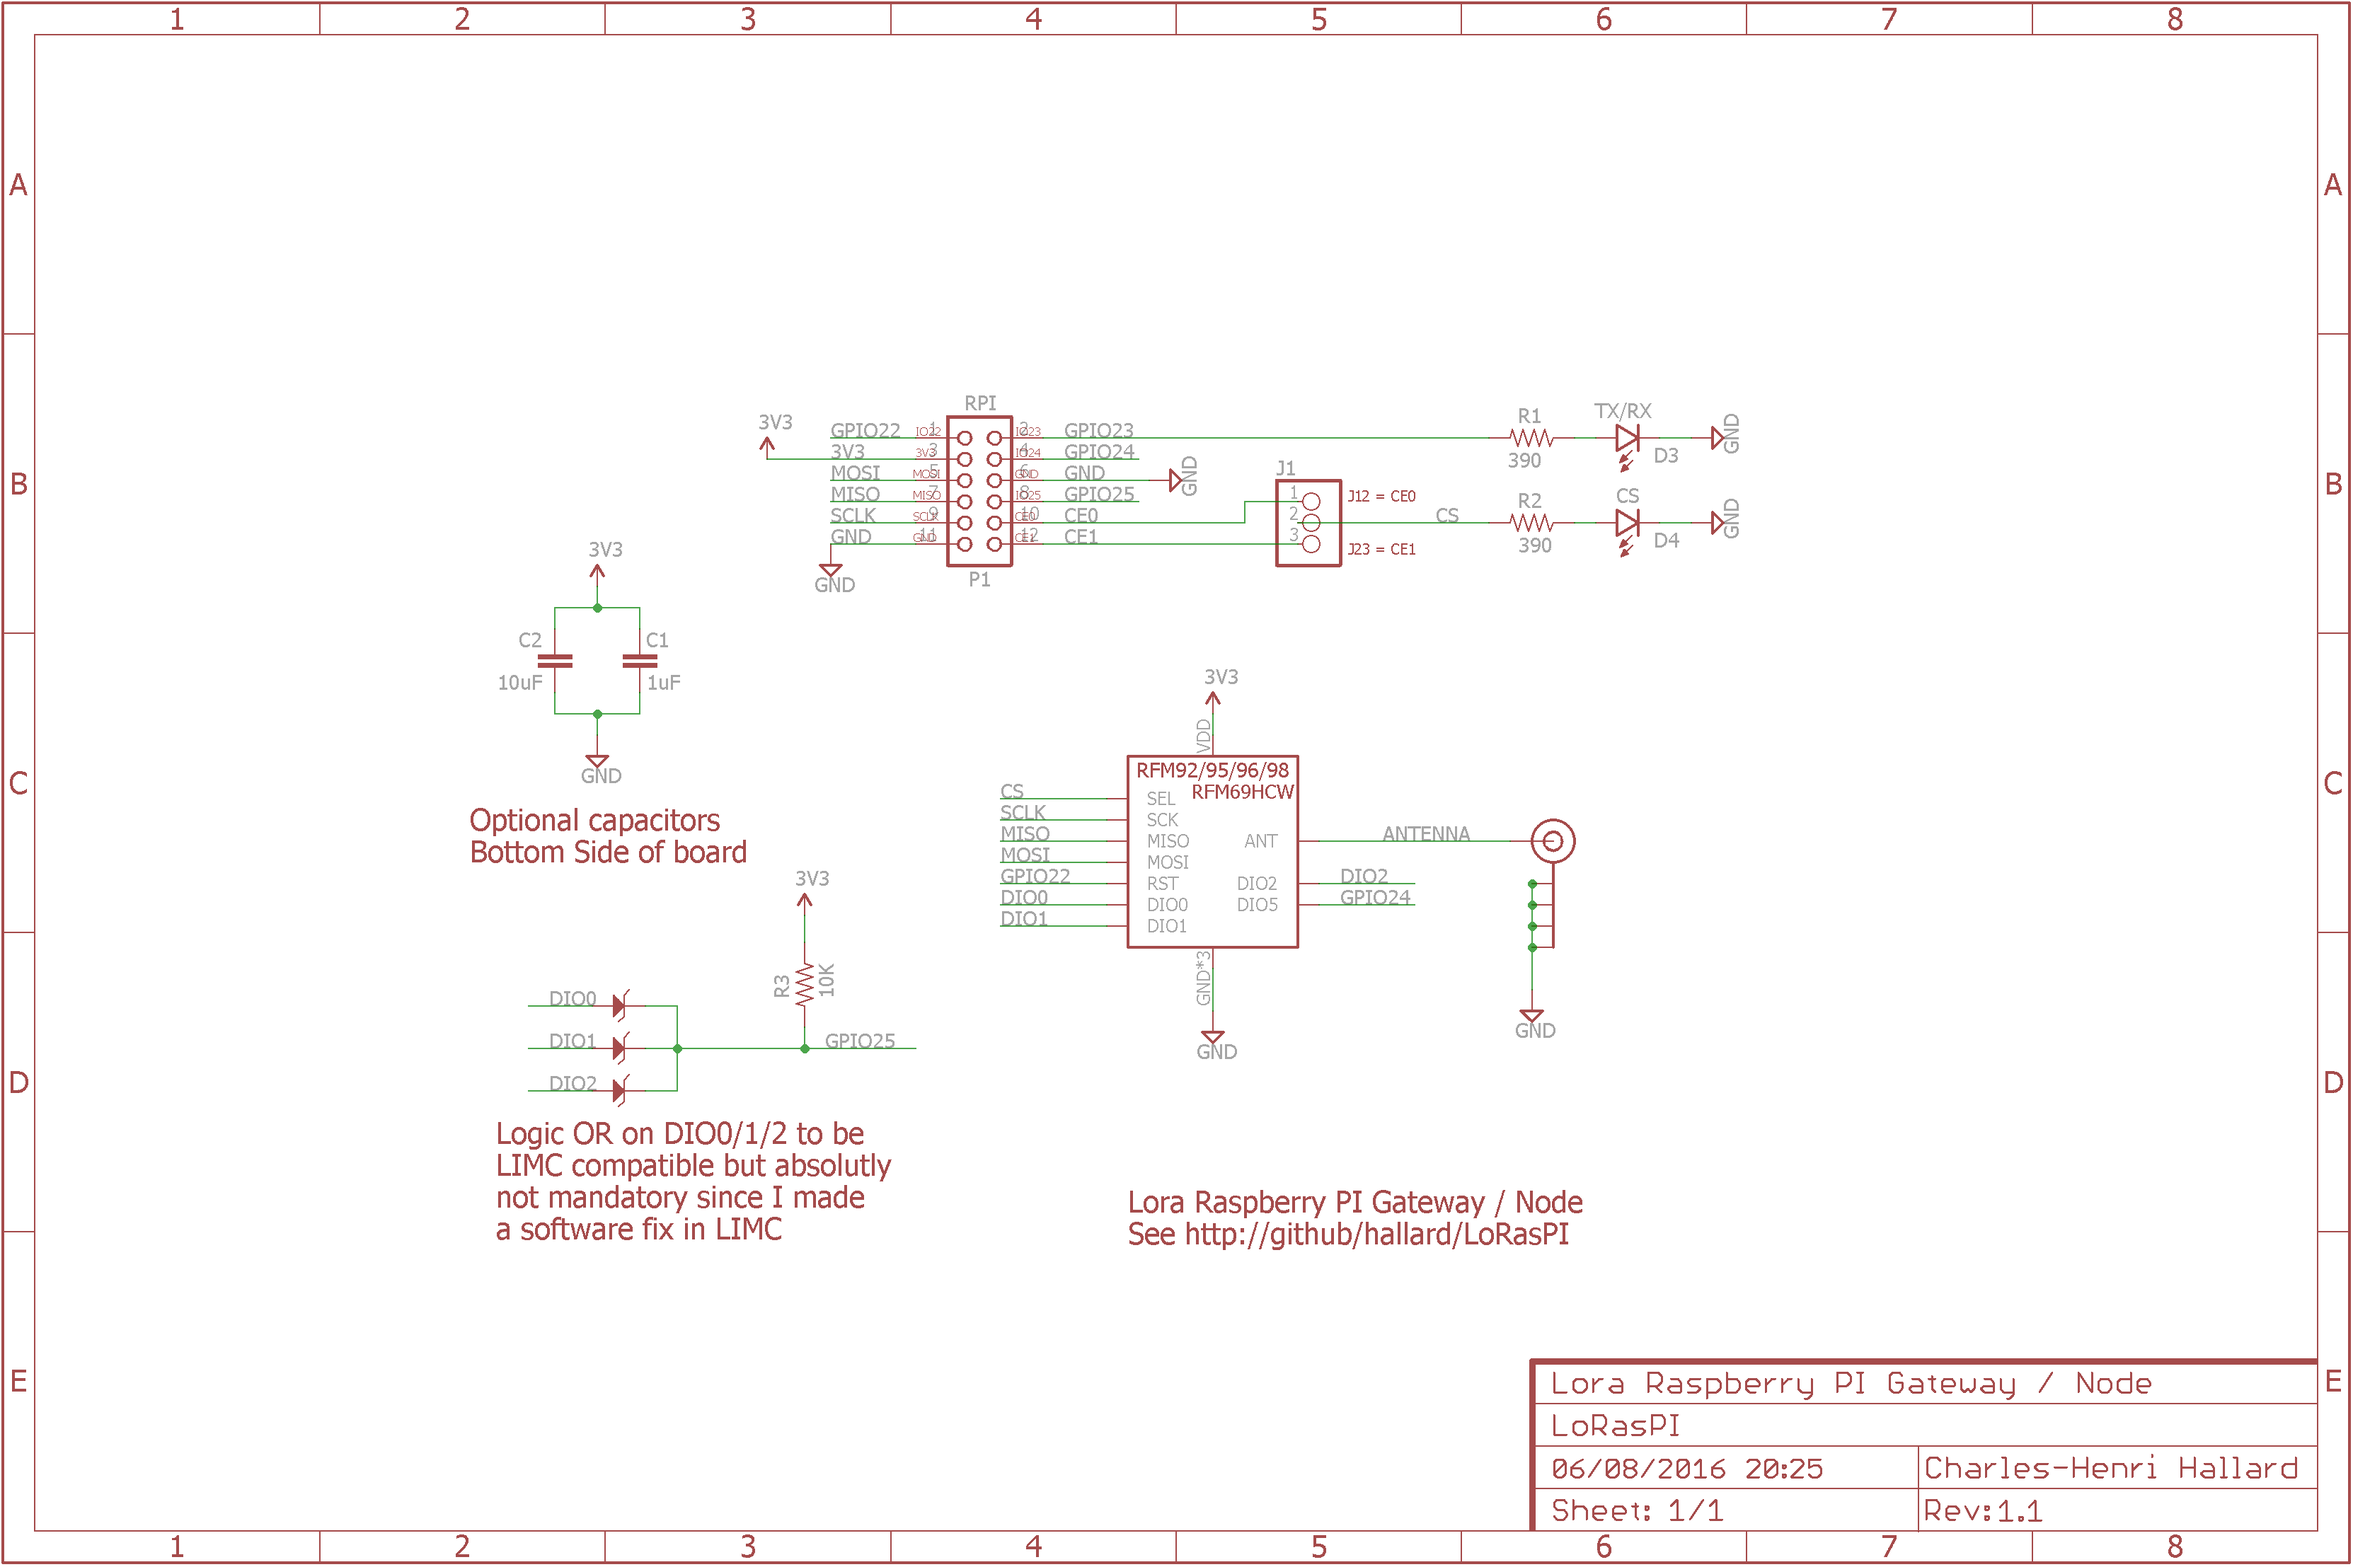
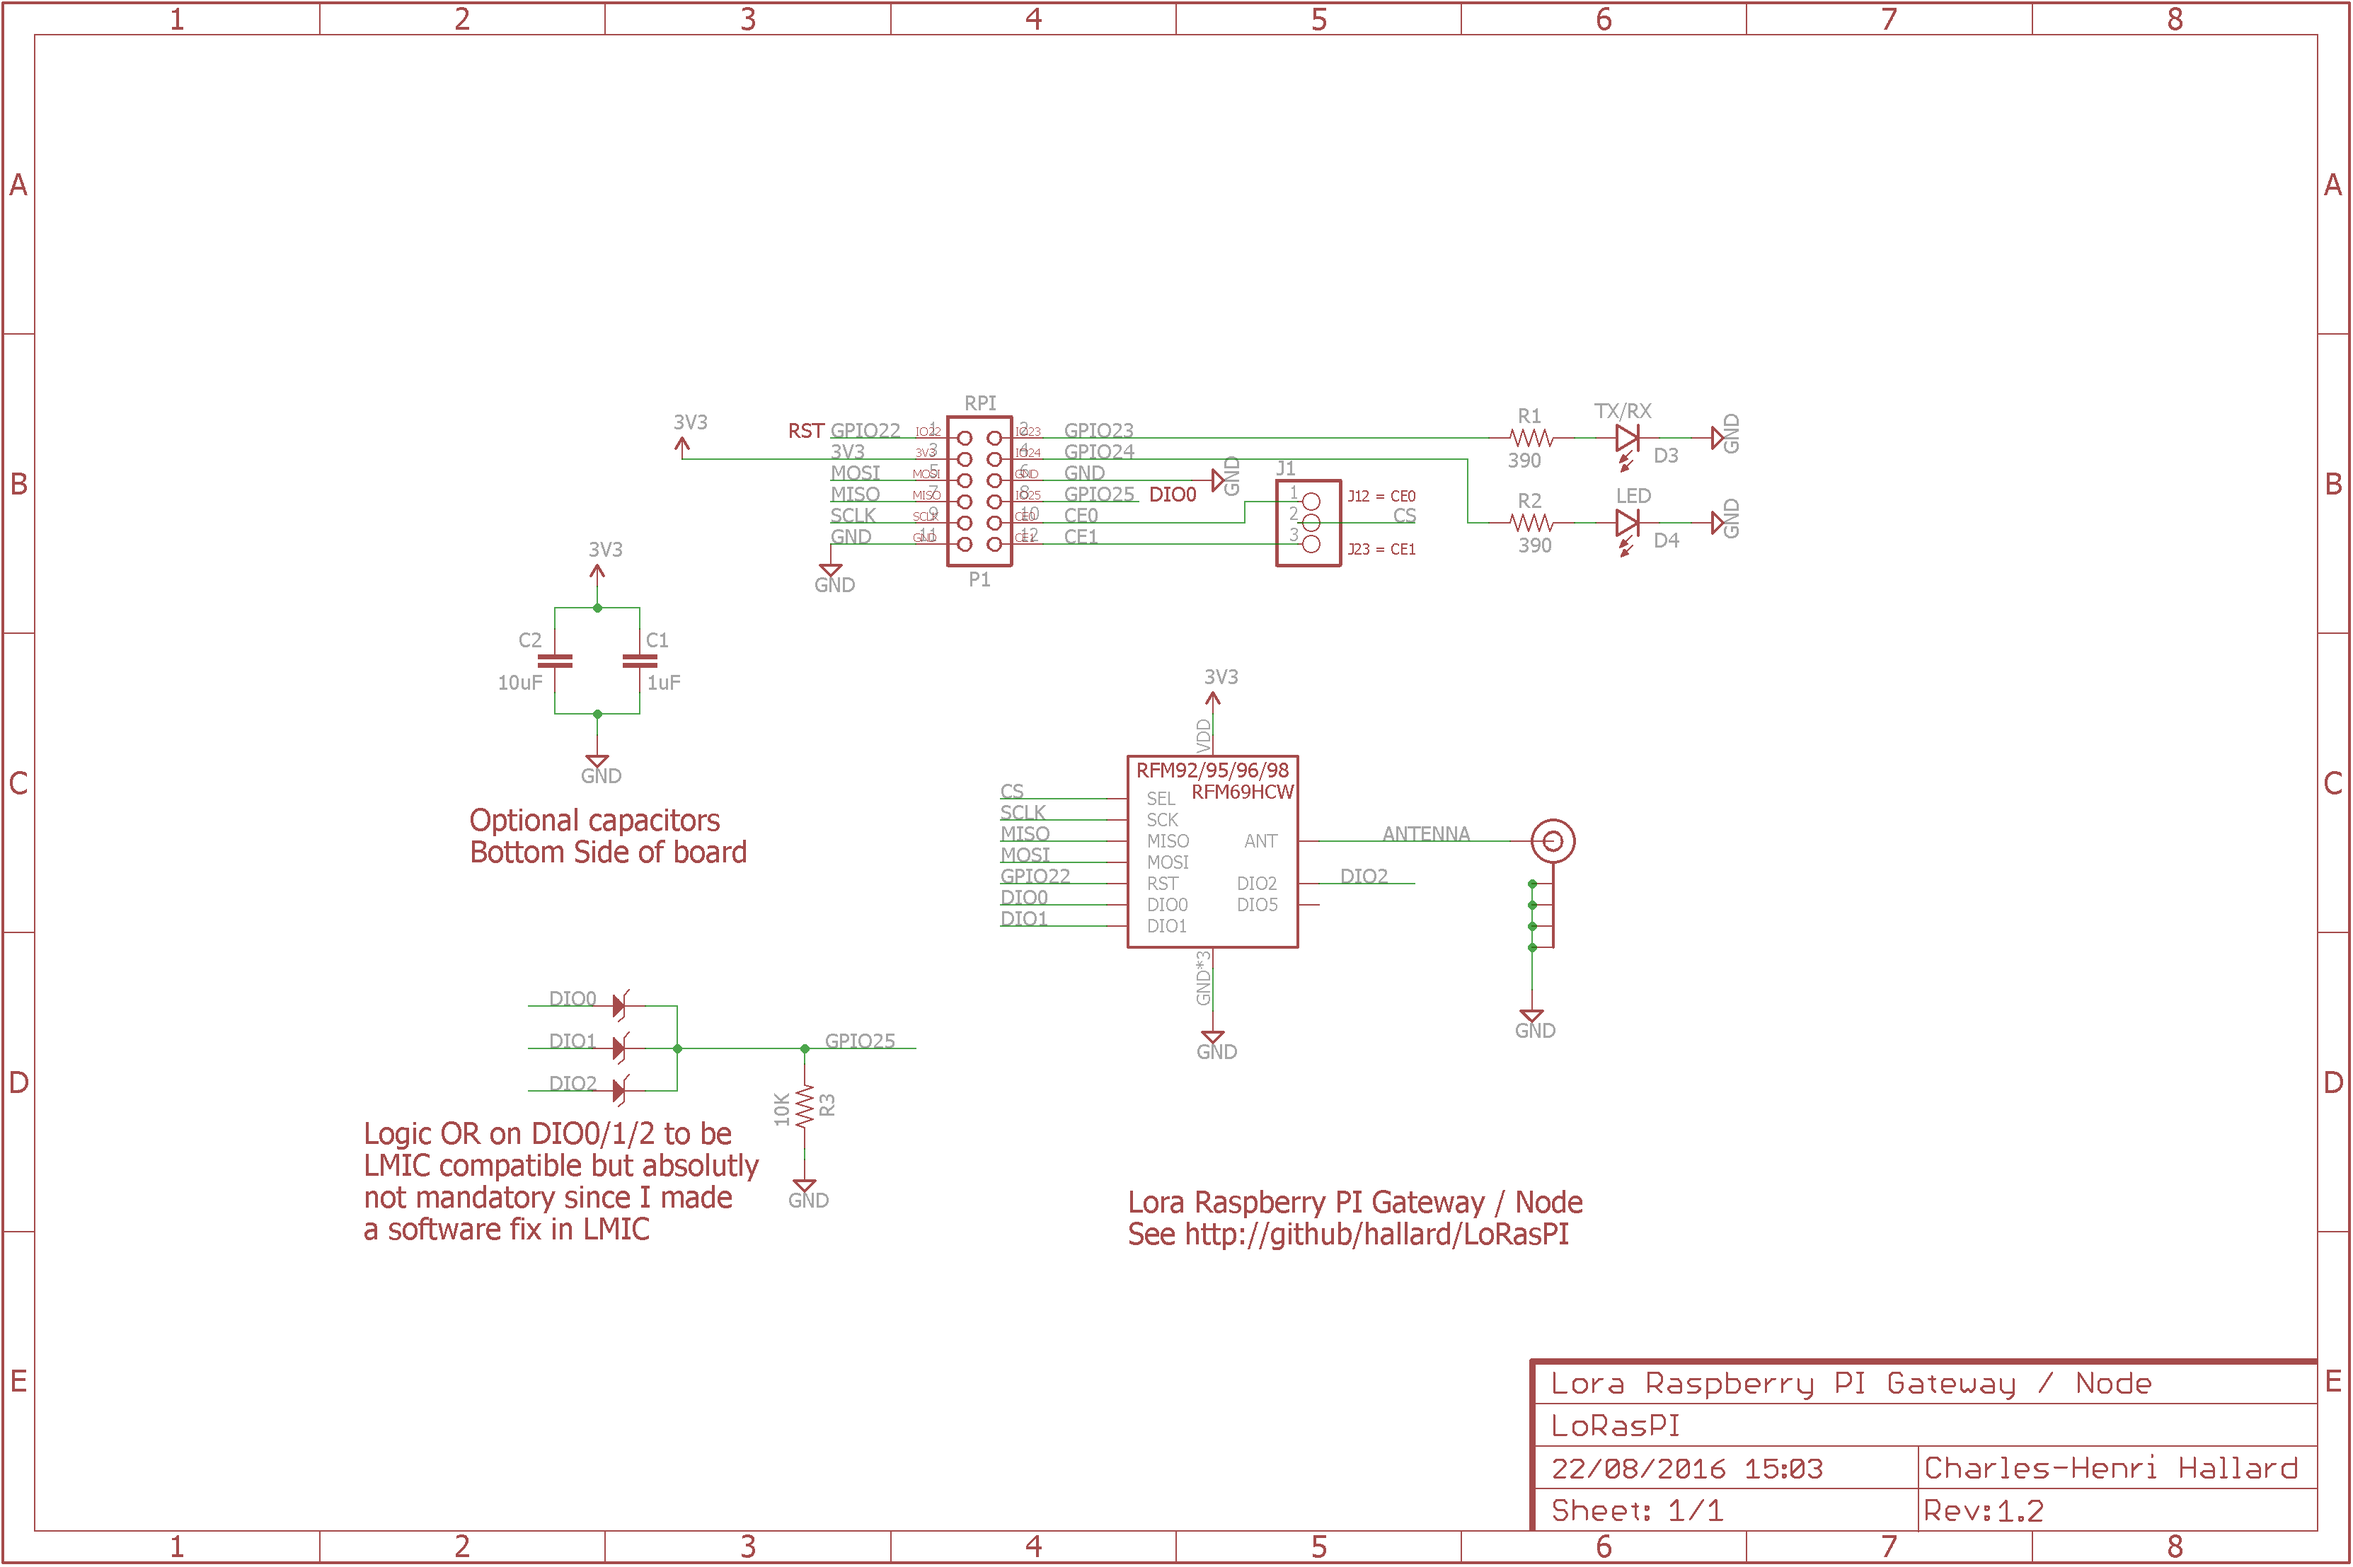
Version 1.2

Changed region(s): [[0.1549, 0.7165, 0.3717, 0.8099], [0.4956, 0.2804, 0.5266, 0.3115]]

diff --git a/README.md b/README.md
@@ -5,15 +5,21 @@ This shield is used to hold HopeRF [Lora module][4] Software with Raspbery PI. i
 
 I tweaked the [Single LoraWan Gateway][5] to get it working out of the box. It should also works with [HAB Supplies Lora Gateway][7] (same pinout), see this excellent [Dave's article][6].
 
-This shield can also act as a LoraWAN Node using [LIMC][9] stack, or also be a Node/Gateway for RF69 networks using the excellent [RadioHead][10] modified library.
+This shield can also act as a LoraWAN Node using [LIMC][9] stack, or also be a Node/Gateway for RF69 networks using the excellent [RadioHead][10] modified library. This RadioHead version tested and worked with this shield, see [readme][12] of library.
 
-As you can see, this shield is small but can do a lot bt if you need a shield with more features (modules) on same board, I've designed a more featured one. It's called RPI Lora Gateway, you can go [here][11] to see it.
+As you can see, this shield is small but can do a lot but if you need a shield with more features (modules) on same board, I've designed a more featured one. It's called RPI Lora Gateway, you can go [here][11] to see it.
 
 Features
 ========
 - Placement for RFM92/95/96/98 Lora module or RFM69HCW classic module
 - Placement for choosing single Wire, SMA or u-FL Antenna type
 - 2 x LED LED for visual indication
+
+**New in Version 1.2**
+
+- R3 Error corrected, it's now a Pull Down
+- DIO5 connection to GPIO24 removed, not used
+- 2nd led is now connected to GPIO24 instead of CS line
 
 **New in Version 1.1**
 
@@ -22,9 +28,9 @@ Features
 - Better ground plane isolation
 - Added some via on RF part 
 
-I'm waiting now new V1.1 boards from OSHPark and PCBs.io, so I didn't fully tested V1.1 yet, I will update ASAP.
+I'm waiting now new V1.1 and V1.2 boards from OSHPark and PCBs.io, so I didn't fully tested V1.1/V1.2 yet, I will update ASAP.
 
-I discovered a design error on V1.1, R3 resistor should be a pull down resistor and not a pull up, so **you should not populate R3, do not place it**, it's not a real problem since software will activate pull down of the BCM2835 controller.
+I discovered a design error on V1.1, R3 resistor should be a pull down resistor and not a pull up, so **you should not populate R3, do not place it**, it's not a real problem since software will activate pull down of the BCM2835 controller but it's corrected in V1.2
 
 ~~I'm waiting boards V1.0~~ Boards arrived from OSHPark, all is working as expected (V1.0). ~~so I didn't fully tested them yet, I will update ASAP~~.
 
@@ -38,13 +44,23 @@ Take care that by default it's connected to CE0 (wired) so you don't have to do 
 
 Only One GPIO needed for DIO0/DIO1/DIO2 (OR made with 3 diodes and one resistor R3) that will make this board fully compatible with current LIMC implementation, even if I've done a software fix which works with no interrupt. Only Needed for Lora modules, if you're using RFM69HCW and and to use IRQ just place D0 and R3.
 
-I discovered a design error on V1.1, R3 resistor should be a pull down resistor and not a pull up, so **you should not populate R3, do not place it**, it's not a real problem since software will activate pull down of the BCM2835 controller.
-
 ~~Other pins that may need be adapted into code (for example if you use TTN network gateway code) according to the following pinout~~ This [Single LoraWan Gateway][5] has been tweaked and works right out of the box.
 
 Detailed Description
 ====================
 
+**Since V1.2**
+```
+Raspberry PI   RFM9x Module 1
+   GPIO22  <---->  Reset
+   GPIO25  <---->  DIO0 OR DIO1 OR DIO2 (Hardware OR done with 1N4148 Diode and R3)
+
+Raspberry PI   On Board LEDS
+   GPIO23  <---->  LED D1 TX/RX
+   GPIO24  <---->  LED D2 LED
+```
+
+**V1.0 and V1.1**
 ```
 Raspberry PI   RFM9x Module 1
    GPIO22  <---->  Reset
@@ -52,8 +68,8 @@ Raspberry PI   RFM9x Module 1
    GPIO24  <---->  DIO5 (Ready)
 
 Raspberry PI   On Board LEDS
-   GPIO23  <---->  LED D1
-CE0 or CE1 <---->  LED D2
+   GPIO23  <---->  LED D1 TX/RX
+CE0 or CE1 <---->  LED D2 CS
 ```
 
 ### Schematic  
@@ -72,13 +88,14 @@ V1.0 connected to Raspberry PI.
 
 <img src="https://raw.githubusercontent.com/hallard/LoRasPI/master/images/LoRasPI-on-Pi.jpg" alt="LoRasPI plugged on PI">
 
-You can order the PCB of this board at [OSHPARK][3] or at [PCBs.io][8]. PCBs.io give me some reward when you order my designed boards from their site. This is pretty good, because I can use these rewards to create and design new boards and order boards for a discounted price and share new boards. So if you don't care about PCB manufacturer please use PCBs.io.
+You can order the PCB of this board at [OSHPARK][3] (V1.1) or new V1.2 at [PCBs.io][8]. PCBs.io give me some reward when you order my designed boards from their site. This is pretty good, because I can use these rewards to create and design new boards and order boards for a discounted price and share new boards. So if you don't care about PCB manufacturer please use PCBs.io.
 
 ##License
 
 You can do whatever you like with this design.
 
 ##Misc
+
 See news and other projects on my [blog][2] 
 
 [1]: https://staging.thethingsnetwork.org/wiki/Hardware/Gateways/DIY 
@@ -88,7 +105,8 @@ See news and other projects on my [blog][2]
 [5]: https://github.com/hallard/single_chan_pkt_fwd
 [6]: http://www.daveakerman.com/?p=1719
 [7]: https://store.uputronics.com/index.php?route=product/product&search=lora&product_id=68
-[8]: https://PCBs.io/share/zkD74
+[8]: https://PCBs.io/share/zvXL8
 [9]: https://github.com/matthijskooijman/arduino-lmic/
 [10]: https://github.com/hallard/RadioHead
 [11]: https://github.com/hallard/RPI-Lora-Gateway
+[12]: https://github.com/hallard/RadioHead/blob/master/README.md
